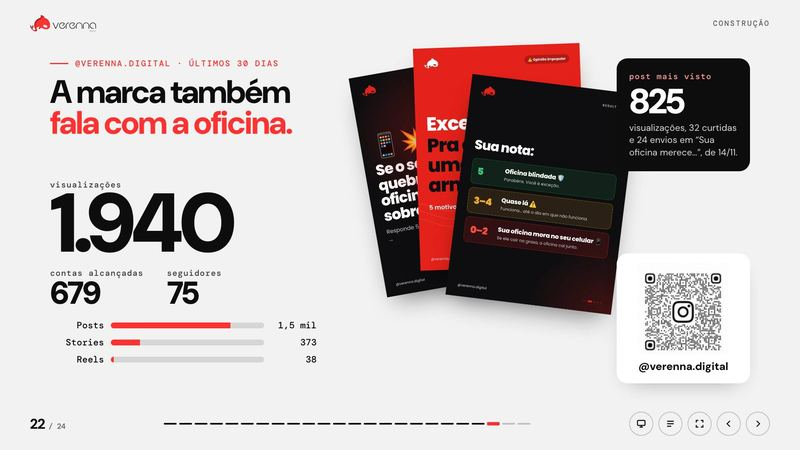
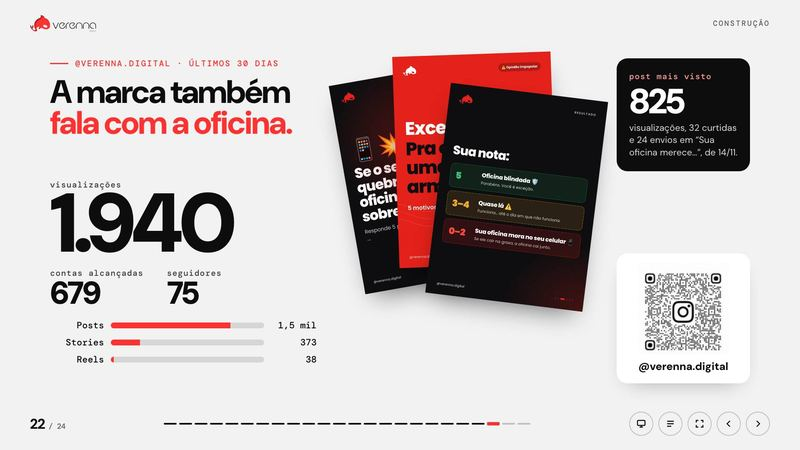
Refino de enquadramento e nova composição do app do cliente

Changed region(s): [[0.4062, 0.0933, 0.8125, 0.7156]]

diff --git a/index.html b/index.html
@@ -169,11 +169,11 @@ button{font:inherit;color:inherit;background:none;border:0;cursor:pointer}
 
 /* ═════════ 01 · NOME — A promessa ═════════ */
 .s-name{background:#0D0D0D}
-.s-name .ghost{position:absolute;left:-30px;top:80px;font-weight:900;font-size:440px;line-height:.8;letter-spacing:-.06em;color:transparent;-webkit-text-stroke:3px rgba(255,50,49,.55);white-space:nowrap;
+.s-name .ghost{position:absolute;left:-30px;top:40px;font-weight:900;font-size:440px;line-height:.8;letter-spacing:-.06em;color:transparent;-webkit-text-stroke:3px rgba(255,50,49,.55);white-space:nowrap;
   transform:translateX(calc(var(--mx,0) * -30px));transition:transform .9s var(--out)}
 .s-name .ghost span{display:inline-block;animation:drift 26s linear infinite}
 @keyframes drift{from{transform:translateX(0)}to{transform:translateX(-25%)}}
-.s-name .kickw{position:absolute;left:120px;top:150px}
+.s-name .kickw{position:absolute;left:120px;top:395px}
 .s-name .word{position:absolute;left:120px;top:440px;font-weight:900;font-size:250px;line-height:.85;letter-spacing:-.06em;color:#fff;display:flex;align-items:flex-end}
 .s-name .word .nn{display:inline-block;max-width:0;overflow:hidden;vertical-align:bottom;color:var(--coral);transform:translateY(-120%);transition:max-width .9s var(--out),transform .9s cubic-bezier(.2,1.5,.4,1)}
 .s-name.s1 .word .nn{max-width:.62em;transform:none}
@@ -194,7 +194,7 @@ button{font:inherit;color:inherit;background:none;border:0;cursor:pointer}
 .pill{position:absolute;display:grid;gap:4px;max-width:420px}
 .pill b{font-size:40px;font-weight:800;letter-spacing:-.025em;line-height:1.02}
 .pill span{font:500 20px var(--mono);color:var(--coral);letter-spacing:.08em}
-.s-pod .facts{position:absolute;left:120px;bottom:200px;width:700px;font-size:30px;line-height:1.42;color:var(--soft)}
+.s-pod .facts{position:absolute;left:120px;bottom:170px;width:460px;font-size:30px;line-height:1.42;color:var(--soft)}
 
 /* ═════════ 03 · CORES ═════════ */
 .s-col .tri{position:absolute;inset:0;display:flex}
@@ -214,7 +214,7 @@ button{font:inherit;color:inherit;background:none;border:0;cursor:pointer}
 .s-two .l,.s-two .r{position:absolute;inset:0}
 .s-two .l{background:var(--ink);clip-path:polygon(0 0,58% 0,42% 100%,0 100%)}
 .s-two .r{background:#F6F4F3;color:var(--ink);clip-path:polygon(58% 0,100% 0,100% 100%,42% 100%)}
-.s-two .lv{position:absolute;left:120px;top:300px;width:640px}
+.s-two .lv{position:absolute;left:120px;top:330px;width:760px}
 .s-two .rv2{position:absolute;right:150px;top:230px;width:480px}
 .s-two .cap{position:absolute;display:grid;gap:14px}
 .s-two .cap .h3{font-size:46px}
@@ -367,20 +367,25 @@ button{font:inherit;color:inherit;background:none;border:0;cursor:pointer}
 .s-mod .desc{position:absolute;left:860px;top:845px;width:940px;font-size:30px;line-height:1.35;font-weight:500}
 
 /* ═════════ 15 · APP DO CLIENTE ═════════ */
-.s-cli .head{position:absolute;left:120px;top:140px;width:760px;display:grid;gap:24px}
-.s-cli .feats{position:absolute;left:120px;top:520px;width:740px;display:grid;gap:18px}
-.s-cli .feats div{display:grid;grid-template-columns:310px 1fr;gap:20px;border-top:2px solid var(--line);padding-top:14px}
+.s-cli .glowbg{position:absolute;right:-200px;top:40px;width:1300px;height:1300px;border-radius:50%;background:radial-gradient(circle,rgba(255,255,255,.28),rgba(255,255,255,0) 62%);pointer-events:none}
+.s-cli .head{position:absolute;left:120px;top:150px;width:720px;display:grid;gap:22px}
+.s-cli .head .lede{font-size:30px;max-width:22em}
+.s-cli .feats{position:absolute;left:120px;top:520px;width:660px;display:grid;gap:0}
+.s-cli .feats div{display:grid;gap:4px;border-top:2px solid rgba(255,255,255,.4);padding:14px 0}
 .s-cli .feats b{font-size:32px;font-weight:850;letter-spacing:-.02em}
-.s-cli .feats span{font-size:25px;line-height:1.35;color:var(--soft)}
-.s-cli .phones{position:absolute;left:960px;top:96px;width:840px;height:760px}
-.s-cli .phone.a{left:10px;top:90px;width:300px;transform:rotate(-8deg) scale(.86)}
-.s-cli .phone.b{left:270px;top:0;z-index:2;width:300px}
-.s-cli .phone.c{left:530px;top:90px;width:300px;transform:rotate(8deg) scale(.86)}
-.s-cli .wip{justify-self:start;font:500 20px var(--mono);letter-spacing:.06em;background:#0D0D0D;color:#fff;padding:10px 16px;border-radius:99px;display:flex;gap:10px;align-items:center}
-.s-cli .wip::before{content:"";width:10px;height:10px;border-radius:50%;background:#E8A317}
-.s-cli .tabs{position:absolute;left:960px;width:840px;bottom:130px;display:flex;flex-wrap:wrap;gap:12px;justify-content:center}
-.s-cli .tabs button{font:600 22px var(--sans);padding:12px 22px;border-radius:99px;box-shadow:inset 0 0 0 2px rgba(255,255,255,.55);transition:all .3s}
-.s-cli .tabs button.act{background:#fff;color:var(--coral);box-shadow:none}
+.s-cli .feats span{font-size:24px;line-height:1.3;color:#fff}
+.s-cli .stagep{position:absolute;left:880px;top:96px;width:760px;height:880px;perspective:2000px}
+.s-cli .phone{width:360px;border-radius:58px;padding:12px;background:#0b0b0b;box-shadow:0 70px 120px -40px rgba(80,0,0,.75),0 0 0 2px #2a2a2a,inset 0 0 0 2px #333}
+.s-cli .phone::before{width:104px;height:30px;top:22px}
+.s-cli .phone .s{border-radius:47px;background:#fff}
+.s-cli .phone .s img{object-fit:cover;object-position:top;padding-top:38px;background:#fff}
+.s-cli .phone.b{left:200px;top:20px;z-index:3}
+.s-cli .phone.a{left:0;top:110px;z-index:1;transform:rotateY(18deg) rotateZ(-4deg) scale(.82);transform-origin:right center;filter:brightness(.92)}
+.s-cli .phone.c{left:400px;top:110px;z-index:2;transform:rotateY(-18deg) rotateZ(4deg) scale(.82);transform-origin:left center;filter:brightness(.92)}
+.s-cli .tabs{position:absolute;left:1660px;top:250px;width:160px;display:grid;gap:12px}
+.s-cli .tabs .tl{font:500 18px var(--mono);letter-spacing:.1em;text-transform:uppercase;color:rgba(255,255,255,.85);margin-bottom:4px}
+.s-cli .tabs button{font:700 22px var(--sans);text-align:left;padding:12px 18px;border-radius:14px;box-shadow:inset 0 0 0 2px rgba(255,255,255,.55);transition:all .3s}
+.s-cli .tabs button.act{background:#fff;color:var(--coral);box-shadow:0 10px 24px -10px rgba(0,0,0,.4)}
 
 /* ═════════ 16 · ANTES × DEPOIS ═════════ */
 .cmp{position:absolute;inset:0;--p:50;cursor:ew-resize;touch-action:none}
@@ -467,8 +472,8 @@ button{font:inherit;color:inherit;background:none;border:0;cursor:pointer}
 /* ═════════ 21 · INSTAGRAM ═════════ */
 .s-ig{background:#F2F2F2}
 .s-ig .head{position:absolute;left:120px;top:140px;width:760px;display:grid;gap:20px}
-.s-ig .posts{position:absolute;left:880px;top:110px;width:600px;height:860px}
-.s-ig .posts img{position:absolute;width:400px;box-shadow:0 30px 60px -24px rgba(0,0,0,.55);transition:transform .7s var(--out)}
+.s-ig .posts{position:absolute;left:830px;top:130px;width:600px;height:860px}
+.s-ig .posts img{position:absolute;width:380px;box-shadow:0 30px 60px -24px rgba(0,0,0,.55);transition:transform .7s var(--out)}
 .s-ig .posts img:nth-child(1){left:0;top:40px;transform:rotate(-10deg)}
 .s-ig .posts img:nth-child(2){left:120px;top:0;transform:rotate(-2deg)}
 .s-ig .posts img:nth-child(3){left:220px;top:90px;transform:rotate(7deg)}
@@ -510,8 +515,8 @@ button{font:inherit;color:inherit;background:none;border:0;cursor:pointer}
 .s-fin .faces{position:absolute;left:0;right:0;top:700px;display:flex;justify-content:center;gap:22px}
 .s-fin .faces img{width:130px;height:130px;border-radius:50%;box-shadow:0 0 0 4px rgba(255,255,255,.25);opacity:0;transform:translateY(30px);transition:all .8s var(--out)}
 .on.s-fin .faces img{opacity:1;transform:none;transition-delay:calc(var(--i) * 80ms + 700ms)}
-.s-fin .names{position:absolute;left:0;right:0;top:870px;text-align:center;font:500 22px var(--mono);color:rgba(242,242,242,.85);padding:0 200px;line-height:1.5}
-.s-fin .links{position:absolute;left:0;right:0;bottom:120px;display:flex;justify-content:center;gap:50px;font:500 22px var(--mono)}
+.s-fin .names{position:absolute;left:0;right:0;top:850px;text-align:center;font:500 21px var(--mono);color:rgba(242,242,242,.85);padding:0 260px;line-height:1.55;text-wrap:balance}
+.s-fin .links{position:absolute;left:0;right:0;bottom:118px;display:flex;justify-content:center;gap:50px;font:500 22px var(--mono)}
 .s-fin .links a{color:#fff;text-decoration:none;border-bottom:2px solid var(--coral)}
 
 @media (prefers-reduced-motion:reduce){*,*::before,*::after{animation-duration:.01ms!important;animation-iteration-count:1!important;transition-duration:.01ms!important;transition-delay:0s!important}}
@@ -591,7 +596,7 @@ button{font:inherit;color:inherit;background:none;border:0;cursor:pointer}
 </section>
 
 <!-- 06 ORIGEM -->
-<section class="scene s-orig" data-title="De onde veio" data-chap="O problema" data-steps="3">
+<section class="scene light s-orig" data-title="De onde veio" data-chap="O problema" data-steps="3">
   <div class="head"><p class="kick rv">Problema identificado</p><h2 class="h1" style="margin-top:20px;color:var(--ink)"><span class="ln"><span>Não foi teoria.</span></span><span class="ln"><span class="c" style="--d:100">Foi vivido.</span></span></h2></div>
   <div class="stampx rv" style="--d:500">Insatisfação:<br>custos · limitações<br>produtividade</div>
   <div class="card paper" data-at="1" style="left:120px;top:520px;transform:rotate(-2deg)"><span class="tape" style="left:180px;top:-18px"></span><span class="tg">Vivência prática</span><b>SENAI</b><p>Integrantes do grupo viveram a rotina de mecânica automotiva e viram o papel e a planilha no comando.</p></div>
@@ -711,19 +716,21 @@ button{font:inherit;color:inherit;background:none;border:0;cursor:pointer}
 
 <!-- 15 APP DO CLIENTE -->
 <section class="scene red s-cli" data-title="App do cliente" data-chap="RevisaCar">
-  <div class="head"><p class="kick rv">App do cliente · PWA</p><h2 class="h2"><span class="ln"><span>E o dono do carro</span></span><span class="ln"><span style="--d:100;color:var(--ink)">acompanha tudo.</span></span></h2><p class="lede rv" style="--d:300">Abre no navegador e instala no celular, sem loja de aplicativos.</p></div>
+  <div class="glowbg"></div>
+  <div class="head"><p class="kick rv">App do cliente · PWA</p><h2 class="h2"><span class="ln"><span>E o dono do carro</span></span><span class="ln"><span style="--d:100;color:var(--ink)">acompanha tudo.</span></span></h2><p class="lede rv" style="--d:300;color:#fff">Abre no navegador e instala no celular, sem loja de aplicativos.</p></div>
   <div class="feats rv" style="--d:450">
     <div><b>Orçamentos</b><span>vê item por item e aprova ou recusa</span></div>
     <div><b>Agendamento</b><span>serviço, dia e horário em 4 passos</span></div>
     <div><b>Saúde do carro</b><span>o que está crítico, em atenção ou ok</span></div>
-    <div><b>Link do orçamento</b><span>aprova mesmo sem instalar o app</span></div>
+    <div><b>Link do orçamento</b><span>aprova sem instalar o app</span></div>
   </div>
-  <div class="phones">
-    <div class="phone a rv" style="--d:300"><div class="s"><img src="img/fc06.webp" alt="Meu veículo e saúde do carro"></div></div>
+  <div class="stagep">
+    <div class="phone a rv" style="--d:350"><div class="s"><img src="img/fc06.webp" alt="Meu veículo e saúde do carro"></div></div>
     <div class="phone b rv" style="--d:200"><div class="s"><img id="cliImg" src="img/fc01.webp" alt="Tela inicial do app do cliente"></div></div>
-    <div class="phone c rv" style="--d:400"><div class="s"><img src="img/fc04.webp" alt="Orçamento"></div></div>
+    <div class="phone c rv" style="--d:450"><div class="s"><img src="img/fc04.webp" alt="Orçamento"></div></div>
   </div>
   <div class="tabs rv" style="--d:600" id="cliTabs">
+    <span class="tl">Telas</span>
     <button class="act" data-i="fc01">Início</button><button data-i="fc04">Orçamento</button><button data-i="fc03">Serviços</button><button data-i="fc05">Agendar</button><button data-i="fc06">Veículo</button><button data-i="fc08">Avisos</button><button data-i="fc09">Pelo link</button>
   </div>
 </section>
@@ -832,7 +839,7 @@ button{font:inherit;color:inherit;background:none;border:0;cursor:pointer}
   <img class="lock rv" src="img/logo-full-light.webp" alt="Verenna Digital">
   <h2 class="thx glow"><span class="ln"><span style="--d:400">Obrigado.</span></span></h2>
   <div class="faces" id="finFaces"></div>
-  <p class="names rv" style="--d:1200">Carlos Eduardo · Cauã Dias · Guilherme Barros · Henrique Jardim · João Victor · Lucas Bertoli · Pablo Leoni · Ygor de Araújo</p>
+  <p class="names rv" style="--d:1200">Carlos Eduardo · Cauã Dias · Guilherme Barros · Henrique Jardim<br>João Victor · Lucas Bertoli · Pablo Leoni · Ygor de Araújo</p>
   <div class="links rv" style="--d:1400"><a href="https://revisacarapp.com" target="_blank" rel="noopener">revisacarapp.com</a><a href="https://www.instagram.com/verenna.digital/" target="_blank" rel="noopener">@verenna.digital</a><a href="https://www.instagram.com/oficina.3l/" target="_blank" rel="noopener">@oficina.3l</a></div>
 </section>
 
@@ -975,10 +982,10 @@ const open=scenes[0];
 open.addEventListener('click',e=>{if(e.target.closest('button'))return;const r=stage.getBoundingClientRect(),k=r.width/1920;const p=document.createElement('i');p.className='pingx';p.style.left=((e.clientX-r.left)/k)+'px';p.style.top=((e.clientY-r.top)/k)+'px';open.appendChild(p);setTimeout(()=>p.remove(),1500);liqI=1.55;setTimeout(()=>liqI=1.22,420)});
 
 /* ── 02 pod ── */
-const P=[['Inteligência','aplicada à tecnologia',[1500,250],'L'],['Segurança','e proteção de dados',[1560,560],'L'],['Trabalho','em equipe',[1440,860],'L'],['Estratégia','e inovação',[860,800],'R'],['Lealdade','e parcerias sólidas',[880,470],'R']];
+const P=[['Inteligência','aplicada à tecnologia',[1480,250],'L'],['Segurança','e proteção de dados',[1520,560],'L'],['Trabalho','em equipe',[1420,840],'L'],['Estratégia','e inovação',[640,790],'R'],['Lealdade','e parcerias sólidas',[640,420],'R']];
 const pills=document.getElementById('pills'),pl=document.getElementById('podLines');const C=[1230,500];
-P.forEach(([a,b,[x,y],side],i)=>{const d=document.createElement('div');d.className='pill';d.dataset.at=i+1;d.style.cssText=`left:${x}px;top:${y}px`;d.innerHTML=`<span>0${i+1}</span><b>${a} ${b}</b>`;pills.appendChild(d);
-  const tx=side==='L'?x-20:x+300,ty=y+40;const cx=(C[0]+tx)/2+(i%2?-120:120),cy=(C[1]+ty)/2+(i%2?90:-90);
+P.forEach(([a,b,[x,y],side],i)=>{const d=document.createElement('div');d.className='pill';d.dataset.at=i+1;d.style.cssText=`left:${x}px;top:${y}px;width:320px;${side==='R'?'text-align:right;justify-items:end;':''}`;d.innerHTML=`<span>0${i+1}</span><b>${a} ${b}</b>`;pills.appendChild(d);
+  const tx=side==='L'?x-20:x+340,ty=y+40;const cx=(C[0]+tx)/2+(i%2?-120:120),cy=(C[1]+ty)/2+(i%2?90:-90);
   const p=document.createElementNS('http://www.w3.org/2000/svg','path');p.setAttribute('d',`M${C[0]},${C[1]} Q${cx},${cy} ${tx},${ty}`);p.setAttribute('pathLength','1');p.dataset.k=i+1;pl.appendChild(p)});
 hooks['s-pod']={step(k){pl.querySelectorAll('path').forEach(p=>p.classList.toggle('in',+p.dataset.k<=k))}};
 
